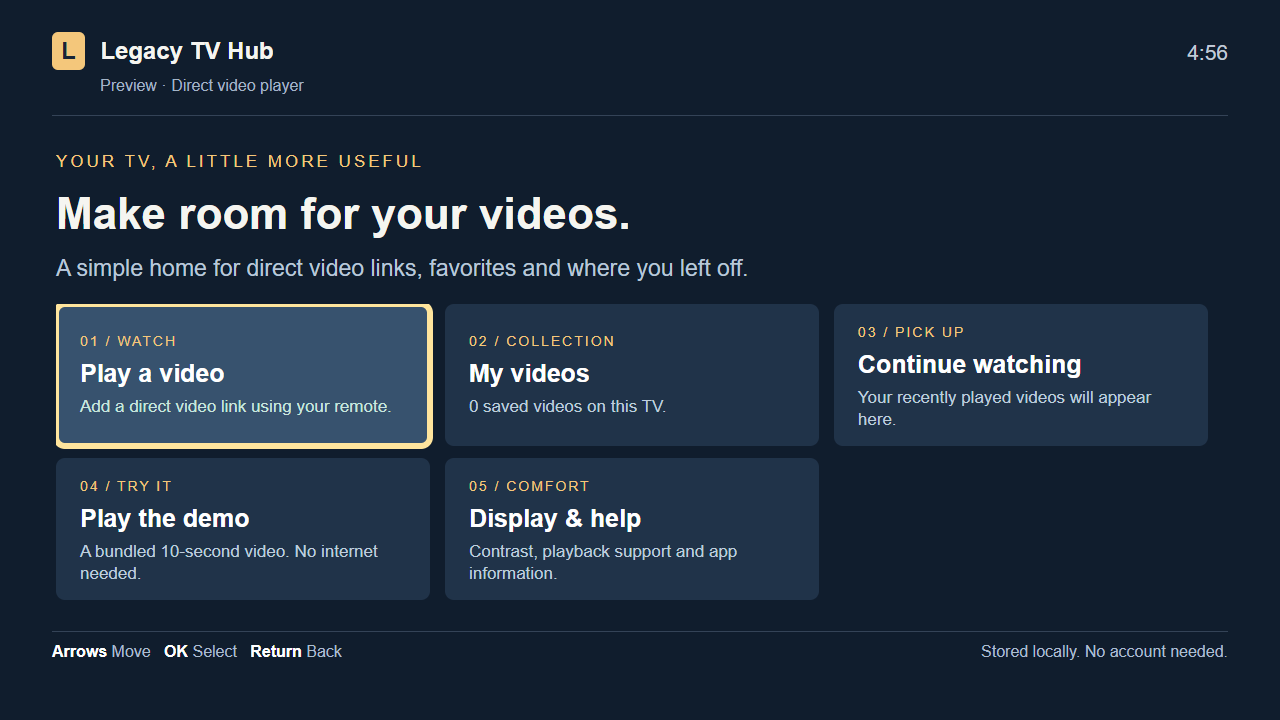
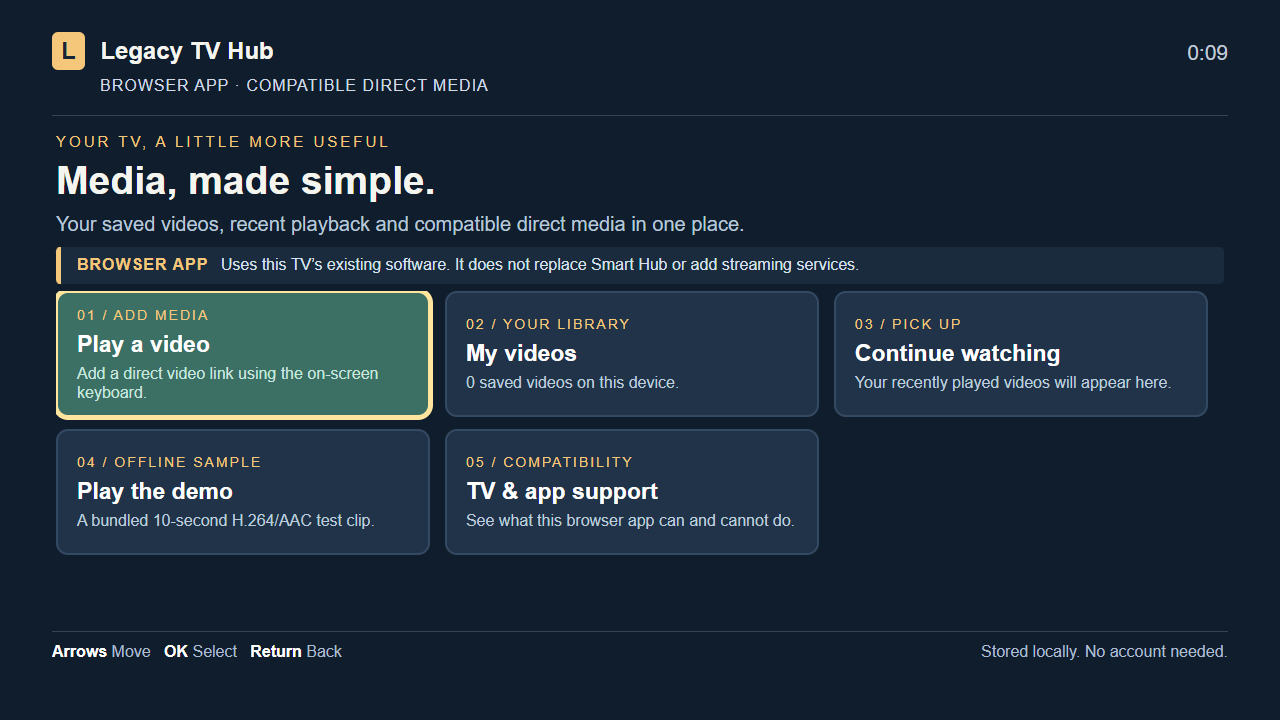
Refresh browser-only media hub preview

Changed region(s): [[0.0312, 0.1833, 0.9688, 0.8556], [0.0625, 0.0917, 0.375, 0.1528], [0.9062, 0.0611, 0.9688, 0.0917]]

diff --git a/app/app.js b/app/app.js
@@ -53,13 +53,17 @@
         return data.items.slice(0).sort(function (a, b) { return b.played - a.played; }).filter(function (item) { return item.played > 0; });
     }
     function home() {
-        begin('home', 'Make room for your videos.', 'A simple home for direct video links, favorites and where you left off.');
+        begin('home', 'Media, made simple.', 'Your saved videos, recent playback and compatible direct media in one place.');
+        content.className = 'home-view';
+        var boundary = put(content, 'div', 'home-boundary');
+        put(boundary, 'strong', '', 'BROWSER APP');
+        put(boundary, 'span', '', ' Uses this TV’s existing software. It does not replace Smart Hub or add streaming services.');
         var cards = put(content, 'div', 'cards'), items = recent();
-        card(cards, '01 / WATCH', 'Play a video', 'Add a direct video link using your remote.', function () { editor(); }, true);
-        card(cards, '02 / COLLECTION', 'My videos', data.items.length + ' saved ' + (data.items.length === 1 ? 'video' : 'videos') + ' on this TV.', function () { library(false); });
+        card(cards, '01 / ADD MEDIA', 'Play a video', 'Add a direct video link using the on-screen keyboard.', function () { editor(); }, true);
+        card(cards, '02 / YOUR LIBRARY', 'My videos', data.items.length + ' saved ' + (data.items.length === 1 ? 'video' : 'videos') + ' on this device.', function () { library(false); });
         card(cards, '03 / PICK UP', 'Continue watching', items.length ? items[0].title : 'Your recently played videos will appear here.', function () { library(true); });
-        card(cards, '04 / TRY IT', 'Play the demo', 'A bundled 10-second video. No internet needed.', demo);
-        card(cards, '05 / COMFORT', 'Display & help', 'Contrast, playback support and app information.', about);
+        card(cards, '04 / OFFLINE SAMPLE', 'Play the demo', 'A bundled 10-second H.264/AAC test clip.', demo);
+        card(cards, '05 / COMPATIBILITY', 'TV & app support', 'See what this browser app can and cannot do.', about);
         focusFirst();
     }
     function library(onlyRecent) {
@@ -124,16 +128,18 @@
         editingField = 'url'; caps = false; url.focus();
     }
     function about() {
-        begin('about', 'Display & help', 'Legacy TV Hub ' + (window.HubVersion || 'development') + ' — a media app for older TV browsers.');
+        begin('about', 'TV & app support', 'Legacy TV Hub ' + (window.HubVersion || 'development') + ' runs inside this TV’s existing browser.');
         var toolbar = put(content, 'div', 'toolbar');
         button(toolbar, data.contrast ? 'Contrast: high' : 'Contrast: standard', function () {
             data.contrast = !data.contrast; document.body.className = data.contrast ? 'high-contrast' : ''; persist(); about();
         }); button(toolbar, 'Home', home);
-        put(content, 'p', 'notice-box', 'This app uses the TV’s existing player. It does not replace the operating system or enable Paramount+ or other unsupported subscription services.');
+        put(content, 'p', 'notice-box', 'Software-only limit: this browser app does not replace Smart Hub, update the TV, or provide Paramount+ and other protected streaming apps.');
         var boxes = put(content, 'div', 'info-grid'), box = put(boxes, 'div', 'info-box');
         put(box, 'h2', '', 'Saved on this device'); put(box, 'p', '', persistent ? 'Your library and watch positions are stored locally. No account or tracking.' : 'Storage is unavailable. Your changes last for this session.');
-        box = put(boxes, 'div', 'info-box'); put(box, 'h2', '', 'Video support'); put(box, 'p', '', 'H.264 MP4: ' + (video.canPlayType('video/mp4; codecs="avc1.42E01E, mp4a.40.2"') || 'not advertised') + '. Playback depends on the link, codec and the TV.');
+        box = put(boxes, 'div', 'info-box'); put(box, 'h2', '', 'Video support'); put(box, 'p', '', 'The bundled H.264/AAC demo is the tested clip. Other links must be direct media and use formats supported by the TV.');
         box = put(boxes, 'div', 'info-box'); put(box, 'h2', '', 'Controls'); put(box, 'p', '', 'Arrows and OK move around the app. Return goes back. During playback, Left/Right seek and OK pauses.');
+        box = put(boxes, 'div', 'info-box'); put(box, 'h2', '', 'Streaming services'); put(box, 'p', '', 'No Paramount+ integration, current Tizen runtime, or new DRM is included. A service watch-page address is not a direct video link.');
+        box = put(boxes, 'div', 'info-box'); put(box, 'h2', '', 'Offline copy'); put(box, 'p', '', 'A new browser document reopened from cache after the setup server stopped. Survival across a TV power cycle is unverified.');
         box = put(boxes, 'div', 'info-box'); put(box, 'h2', '', platform ? platform.name : 'Browser preview'); put(box, 'p', '', navigator.userAgent);
         if (runtimeInfo) {
             box = put(boxes, 'div', 'info-box'); put(box, 'h2', '', 'TV information');

diff --git a/app/style.css b/app/style.css
@@ -2,3 +2,4 @@
 .editor h1{font-size:32px;margin-bottom:10px}.editor .editor-hint{font-size:17px;margin:9px 0}.editor .keyboard{margin-top:8px}.editor .key-row{height:43px}.editor .key-row button{min-height:37px;height:37px;font-size:20px;margin:2px 3px}.editor .keyboard-controls button{min-height:37px;padding:5px 11px;font-size:18px}.editor .toolbar{margin:9px 0}.editor .toolbar button{min-height:42px;padding:7px 18px;font-size:21px}.editor .error{min-height:23px;margin:5px 0;font-size:18px}
 #content{overflow-x:hidden}.cards{margin:20px 0 0}.card{height:142px;padding:17px 21px;margin:0 1.3% 12px 0;width:32%}.card strong{font-size:25px;margin:10px 0 8px}.card small{font-size:17px;line-height:1.25}.card .number{font-size:14px}
 html.tv-playback,html.tv-playback body,html.tv-playback #player-screen{background:transparent}html.tv-playback #video{visibility:hidden}
+.release{text-transform:uppercase;letter-spacing:1px;color:#cfdae6}#content.home-view{padding-top:15px}.home-view .eyebrow{font-size:15px;margin-bottom:8px}.home-view h1{font-size:39px;margin-bottom:7px}.home-view .lead{font-size:20px;margin:6px 0}.home-boundary{background:#1b2b3e;border-left:5px solid #f4c77b;border-radius:5px;padding:8px 16px;margin:9px 0 4px;color:#d8e2ed;font-size:16px;line-height:1.3}.home-boundary strong{color:#f4c77b;letter-spacing:1px;margin-right:8px}.home-view .cards{margin-top:7px}.home-view .card{height:126px;padding:14px 19px;border:2px solid #344a62;border-radius:12px;transition:background-color .12s ease}.home-view .card strong{font-size:23px;margin:8px 0 6px}.home-view .card small{font-size:16px;line-height:1.2}.home-view .card:focus{border-color:#ffe59d;box-shadow:0 0 0 3px #ffe59d;background:#37526e}.home-view .card.accent{background:#315a55;border-color:#47786e}.home-view .card.accent:focus{background:#3c7065;border-color:#ffe59d}.high-contrast .home-boundary{background:#111;border-color:#ffdf6e;color:#fff}.high-contrast .home-boundary strong{color:#ffdf6e}

diff --git a/tests/browser/app.spec.js b/tests/browser/app.spec.js
@@ -37,6 +37,19 @@ test('remote navigation, full video, pause/resume and return home', async ({page
     expect(errors).toEqual([]);
 });
 
+test('home page clearly describes browser-only scope and opens compatibility details', async ({page}) => {
+    await page.goto('/');
+    await expect(page.getByText('BROWSER APP', {exact: true})).toBeVisible();
+    await expect(page.getByText(/does not replace Smart Hub or add streaming services/i)).toBeVisible();
+    await expect(page.getByRole('button', {name: /Play the demo/})).toBeInViewport();
+    await expect(page.getByRole('button', {name: /TV & app support/})).toBeInViewport();
+    await expect(page.locator('footer')).toBeInViewport();
+    await page.getByRole('button', {name: /TV & app support/}).click();
+    await expect(page.getByRole('heading', {name: 'TV & app support'})).toBeVisible();
+    await expect(page.getByText(/does not replace Smart Hub, update the TV, or provide Paramount\+/i)).toBeVisible();
+    await expect(page.getByText(/Survival across a TV power cycle is unverified/i)).toBeVisible();
+});
+
 test('closing before metadata preserves the existing resume point', async ({page, baseURL}) => {
     let release;
     const gate = new Promise(resolve => { release = resolve; });

diff --git a/index.html b/index.html
@@ -1,1 +1,1 @@
-<!doctype html><html lang="en"><head><meta charset="utf-8"><meta http-equiv="refresh" content="0;url=app/"><title>Legacy TV Hub</title></head><body><p><a href="app/">Open Legacy TV Hub</a></p><p>Preview app for direct video links. This does not replace TV firmware or enable unsupported streaming services.</p></body></html>
+<!doctype html><html lang="en"><head><meta charset="utf-8"><meta http-equiv="refresh" content="0;url=app/"><title>Legacy TV Hub</title></head><body><p><a href="app/">Open Legacy TV Hub</a></p><p>Remote-controlled browser media hub for compatible direct video. It does not replace Smart Hub, update TV firmware or provide Paramount+ and other protected streaming services.</p></body></html>

diff --git a/app/index.html b/app/index.html
@@ -3,7 +3,7 @@
 <link rel="stylesheet" href="style.css">
 </head><body>
 <div id="shell">
-  <header><div class="brand"><span class="brand-icon">L</span> Legacy TV Hub</div><span id="clock"></span><div class="release">Preview · Direct video player</div></header>
+  <header><div class="brand"><span class="brand-icon">L</span> Legacy TV Hub</div><span id="clock"></span><div class="release">Browser app · Compatible direct media</div></header>
   <main id="content" aria-live="polite"></main>
   <footer><span><b>Arrows</b> Move &nbsp; <b>OK</b> Select &nbsp; <b>Return</b> Back</span><span id="notice">Ready</span></footer>
 </div>

diff --git a/app/version.js b/app/version.js
@@ -1,2 +1,2 @@
 /* Generated from package.json by build.py. */
-window.HubVersion = '0.3.1';
+window.HubVersion = '0.3.2';

diff --git a/README.md b/README.md
@@ -2,11 +2,11 @@
 
 [![Checks](https://github.com/Coding-Dev-Tools/legacy-tv-hub/actions/workflows/checks.yml/badge.svg)](https://github.com/Coding-Dev-Tools/legacy-tv-hub/actions/workflows/checks.yml)
 
-A remote-controlled media app and temporary setup tools for older Samsung TVs. Save direct video links, keep watch positions, and store the app and its bundled demo in a compatible TV browser.
+A remote-controlled media hub and temporary setup tools for older Samsung TVs. Save compatible direct video links, keep watch positions, and store the app and its bundled demo in a compatible TV browser. It is a browser app, not a replacement operating system or streaming-service app.
 
-**Preview 0.3.1.** The tested platform is Samsung 2014 Legacy / Orsay (UN55HU7250). Firmware replacement, Tizen upgrades and Paramount+ support are unavailable in this project. See the [feature matrix](docs/compatibility.md) and [measured results](docs/verification.md).
+**Preview 0.3.2.** The hardware previously tested is Samsung 2014 Legacy / Orsay (UN55HU7250); this UI revision still needs a physical-TV check. It refreshes the remote-friendly browser interface and makes its software-only limits explicit. It does not replace Smart Hub, update firmware or provide Paramount+ or other protected streaming services. See the [feature matrix](docs/compatibility.md) and [measured results](docs/verification.md).
 
-[Browser preview](https://coding-dev-tools.github.io/legacy-tv-hub/app/) · [Download packages](https://github.com/Coding-Dev-Tools/legacy-tv-hub/releases/tag/v0.3.1) · [Installation details](docs/standalone-browser.md)
+[Browser preview](https://coding-dev-tools.github.io/legacy-tv-hub/app/) · [GitHub release packages](https://github.com/Coding-Dev-Tools/legacy-tv-hub/releases) · [Installation details](docs/standalone-browser.md)
 
 ![Legacy TV Hub home screen](assets/home.png)
 
@@ -25,7 +25,7 @@ On the tested UN55HU7250 this command:
 3. Waits for the TV to acknowledge that the copy is stored. The acknowledgment contains only the app version and a temporary setup token.
 4. Closes the server and requests the same app URL again from the TV's cache.
 
-Bookmark the exact URL printed by the command in the TV browser. Once the copy is stored, the app and bundled demo can run without a computer serving their files. Saved video links still need their own available media source. Browser-cache eviction, clearing TV data or a changed origin may require another transfer. **Persistence across TV power loss remains unverified.** A launch response alone does not prove page execution; the command reports a timeout as an unconfirmed setup.
+Bookmark the exact URL printed by the command in the TV browser. Once the copy is stored, the app and bundled demo can run without a computer serving their files. An existing computer is needed again only for a future transfer or update. Saved video links still need their own available media source. Browser-cache eviction, clearing TV data or a changed origin may require another transfer. **Persistence across TV power loss remains unverified.** A launch response alone does not prove page execution; the command reports a timeout as an unconfirmed setup.
 
 `--port 8770` selects another browser-serving port; `--duration 300` changes the maximum wait (default 900 seconds, maximum 3600). The server stops early after cache acknowledgment. It changes no firewall rules. If automatic launch is unavailable, use the [manual browser instructions](docs/standalone-browser.md). Other models require their own tests and an explicit `--expected-model`; this is not general Samsung device discovery.
 
@@ -38,7 +38,7 @@ Modern browsers have removed AppCache. Use the regular [browser app](https://cod
 | Direct video links, favorites, resume and recent videos | Implemented; limited by the TV's existing decoder and network support |
 | Remote-style arrows, OK/Enter, Back/Return and playback controls | Implemented; desktop key tests pass; physical hardware-key behavior still needs a model-specific report |
 | On-screen link keyboard, high contrast and local storage | Implemented; no account or external runtime packages |
-| Cached app and bundled H.264/AAC demo | Physical UN55HU7250 document reopen and complete playback verified with asset serving stopped; see [evidence](docs/verification.md) |
+| Cached app and bundled H.264/AAC demo | Preview 0.3.1 document reopen and complete playback verified with asset serving stopped. Preview 0.3.2 needs its own TV check; power-cycle persistence remains unverified. See [evidence](docs/verification.md) |
 | Samsung native user widget | Packaged preview; installation/removal and optional native PLAYER remain unverified |
 | Newer official Samsung firmware | Use Samsung's exact-model updater; this repository has no firmware image |
 | Paramount+ and other unsupported subscription services | No integration or verified protected playback |
@@ -53,7 +53,7 @@ python build.py
 python serve.py --tv YOUR_TV_IP
 ```
 
-The build creates native widget **0.301**, portable web **0.3.1**, and offline web **0.3.1** archives. `release.json` and `SHA256SUMS` record their sizes and checksums. The native sync server uses port 80. Installation still requires Samsung's on-TV developer/sync workflow; see [installation and removal](docs/samsung-legacy.md). This package does not flash the TV.
+The build creates native widget **0.302**, portable web **0.3.2**, and offline web **0.3.2** archives. `release.json` and `SHA256SUMS` record their sizes and checksums. The native sync server uses port 80. Installation still requires Samsung's on-TV developer/sync workflow; see [installation and removal](docs/samsung-legacy.md). This package does not flash the TV and does not add streaming services.
 
 ## Develop and verify
 
@@ -72,4 +72,4 @@ Browser tests use a separate headless profile and exercise complete H.264/AAC pl
 
 [GitHub Actions](.github/workflows/checks.yml) runs the core/ES5 and Python checks on Linux and Windows, checks generated release metadata, and runs browser playback checks on Linux. All runtime application scripts must parse as ES5. ZIP entries use fixed dates, Unix attributes and normalized text; repeat-build checks cover all three packages.
 
-See [CONTRIBUTING](CONTRIBUTING.md), [security reporting](SECURITY.md), the [0.3.1 release notes](docs/release-0.3.1.md), and [OS-replacement research](docs/os-replacement.md). Compatibility reports should include actual installation, remote input, complete playback and restart results, with serial numbers, network names, accounts and pairing data omitted. MIT licensed; see [LICENSE](LICENSE).
+See [CONTRIBUTING](CONTRIBUTING.md), [security reporting](SECURITY.md), the [0.3.2 release notes](docs/release-0.3.2.md), and [OS-replacement research](docs/os-replacement.md). Compatibility reports should include actual installation, remote input, complete playback and restart results, with serial numbers, network names, accounts and pairing data omitted. MIT licensed; see [LICENSE](LICENSE).

diff --git a/docs/compatibility.md b/docs/compatibility.md
@@ -1,6 +1,6 @@
 # Feature status and acceptance
 
-Assessment date: October 21, 2026. Target tested: Samsung UN55HU7250 / 2014 Legacy platform. Preview 0.3.1 does **not** meet the requirement to replace modern TV software or run all modern streaming services. Other TV platforms need their own verified installation and runtime support.
+Assessment date: October 22, 2026. Target model: Samsung UN55HU7250 / 2014 Legacy platform; physical results below identify the preview actually measured. Preview 0.3.2 provides a refreshed browser interface, not new TV software. It does **not** replace Smart Hub, update firmware, or run modern subscription services. Other TV platforms need their own verified installation and runtime support.
 
 The status labels below distinguish existing functions from future development. "Blocked" means there is no demonstrated implementation within the current software-only, no-permanent-PC constraint; it is not a claim that future vendor cooperation is impossible.
 
@@ -14,7 +14,7 @@ The status labels below distinguish existing functions from future development. 
 | Browser app launch over the LAN | **Available now on the tested UN55HU7250** | A plain URL POST to the browser endpoint advertised by MultiScreenService loaded the real shared app. The owner confirmed it was visible. DIAL incorrectly continued reporting stopped. See the [launch tool and limits](samsung-legacy-browser.md). This does not install the app or replace firmware. |
 | Browser copy without continuous PC serving | **Available now for the measured cached reopen** | AppCache stored the app and bundled video. A new document reopened and completed playback with the asset listener closed. A separate diagnostic listener served no assets. Power-cycle persistence, native installation and cache-eviction recovery remain unverified. See [scope and reproduction](standalone-browser.md). |
 | Casting compatible direct media through the existing DLNA renderer | **Available now for the tested clip** | The physical TV fetched the 10-second H.264/AAC file and reported full-duration playback. This does not establish general codec coverage, Chromecast, AirPlay, screen mirroring or protected service casting. A network media source must be independently available for ongoing use. |
-| Direct-video library, resume, remote-friendly interface and contrast | **Custom development feasible; prototype running in the TV browser** | The shared ES5 app loaded on the physical TV; the bundled video, pause/resume, return home and a temporary storage round-trip passed. A cached reopen also completed playback after the asset listener closed. Library/resume across a TV app restart, physical key delivery and native installation remain unverified. |
+| Refreshed remote-friendly browser interface, direct-video library, resume and contrast | **Custom development feasible; browser UI built** | Preview 0.3.2 adds clearer browser-only and service-compatibility messaging while retaining the existing ES5 app and controls. This UI revision has automated browser coverage; its updated appearance still needs a physical-TV check. The 0.3.1 bundled video and cached document reopen passed on the target. Cache/library persistence across a cold TV boot remains unverified. |
 | Broader media playback | **Custom development feasible within existing decoder limits** | One H.264/AAC clip now completed in the shared app's TV browser player, including pause/resume. Other codecs, audible sound and protected services have not passed. The TV returned non-discriminating canPlayType results; these are not AV1/VP9/HEVC decode tests. No new decoder or DRM capability was added. |
 | Samsung native playback and firmware identification | **Custom development feasible; experimental bridge built** | Preview 0.2 adds the existing Legacy PLAYER plugin and read-only NNavi version queries. Contract and explicitly labeled desktop simulation checks pass. Native execution, duration units, picture/audio and firmware results still require measurement on the TV. See [implementation and limits](native-player.md). |
 | New picture/audio hardware capabilities | **Blocked** | No firmware or driver change was installed; no new panel, HDMI or audio capability is supplied by this app. Existing TV settings remain the applicable controls. |

diff --git a/docs/verification.md b/docs/verification.md
@@ -1,5 +1,13 @@
 # Verification record
 
+## October 22: preview 0.3.2 browser-interface refresh
+
+Preview 0.3.2 passed the repository's desktop checks: five Playwright browser tests in Chromium, all Node core/native/offline/ES5 checks, all 25 Python tests, and a complete package build. These checks cover the refreshed browser UI and bundled demo in desktop Chromium. They do not establish operation on the Samsung browser.
+
+The TV could not be reached at its last reported address during this run. Its known browser-control ports did not answer, and the local network table did not provide a usable device address for a targeted wake. No package or browser command was sent to the TV, and no firmware was changed. Therefore this preview's visual appearance, remote operation, cached reopen, library persistence and bundled-demo playback have **not** been verified on the TV. The earlier 0.3.1 physical cached-reopen and demo result remains valid only for that version. A cold boot and cache persistence across power loss remain **unverified**. The sanitized run record is [here](evidence/ui-refresh-2026-10-22.json).
+
+Paramount+ login/playback and other protected streaming were not attempted: this browser app adds no service client, current DRM or TV operating-system support.
+
 ## October 21, 23:39 New York: network reconnection
 
 A wake-on-LAN packet addressed to the TV's single known network neighbor was followed by successful identity and service checks. Samsung's API identified the target as UN55HU7250 / 2014 NT14U, US region, wireless. Its firmware field returned `Unknown`; the owner-reported 1330 could not be confirmed remotely. Three UPnP descriptions and the known control-service TCP ports then responded. No browser launch, firmware update, cold boot, or Paramount+ playback was attempted during this check. The [sanitized record](evidence/reconnected-tv-2026-10-21.json) distinguishes restored network access from software-upgrade results.

diff --git a/docs/standalone-browser.md b/docs/standalone-browser.md
@@ -21,7 +21,7 @@ python tools/build_offline_web.py
 python serve.py --offline --tv YOUR_TV_IP --port 8769
 ```
 
-The builder creates `dist/offline/` and `dist/LegacyTVHub_offline_web_0.3.1.zip`. The server verifies its asset hashes, exposes only the declared files, serves the manifest as `text/cache-manifest`, and stops automatically after 15 minutes. It needs no native ZIP, firewall changes, accounts or additional packages. For manual serving, stop it after the app reports its stored copy. `--duration` can extend the temporary window up to one hour.
+The builder creates `dist/offline/` and `dist/LegacyTVHub_offline_web_0.3.2.zip`. The server verifies its asset hashes, exposes only the declared files, serves the manifest as `text/cache-manifest`, and stops automatically after 15 minutes. It needs no native ZIP, firewall changes, accounts or additional packages. For manual serving, stop it after the app reports its stored copy. `--duration` can extend the temporary window up to one hour.
 
 Open the server's printed URL in the TV browser, including its port. On the measured Samsung target, the repository's browser launcher can open it over the LAN:
 

diff --git a/docs/release-0.3.2.md b/docs/release-0.3.2.md
@@ -1,0 +1,7 @@
+# Preview 0.3.2 — October 22, 2026
+
+Refresh the browser app home screen into a clearer media hub with remote-friendly sections for direct video, the local library, recent playback, the bundled demo and TV/app compatibility.
+
+The interface now states that it runs in the existing TV browser and does not replace Smart Hub, update firmware or provide Paramount+ and other protected streaming apps. Compatibility details distinguish the tested H.264/AAC demo from unverified media formats and state that AppCache survival across a TV power cycle remains unverified.
+
+This release adds no new player, firmware, operating system, DRM, service integration, external API or account-data collection. Preview 0.3.2 automated browser coverage must not be confused with physical-TV validation: the previous preview 0.3.1 passed the measured cached reopen and demo playback on the UN55HU7250; the new visual treatment and cold-boot persistence still require verification on that TV.
